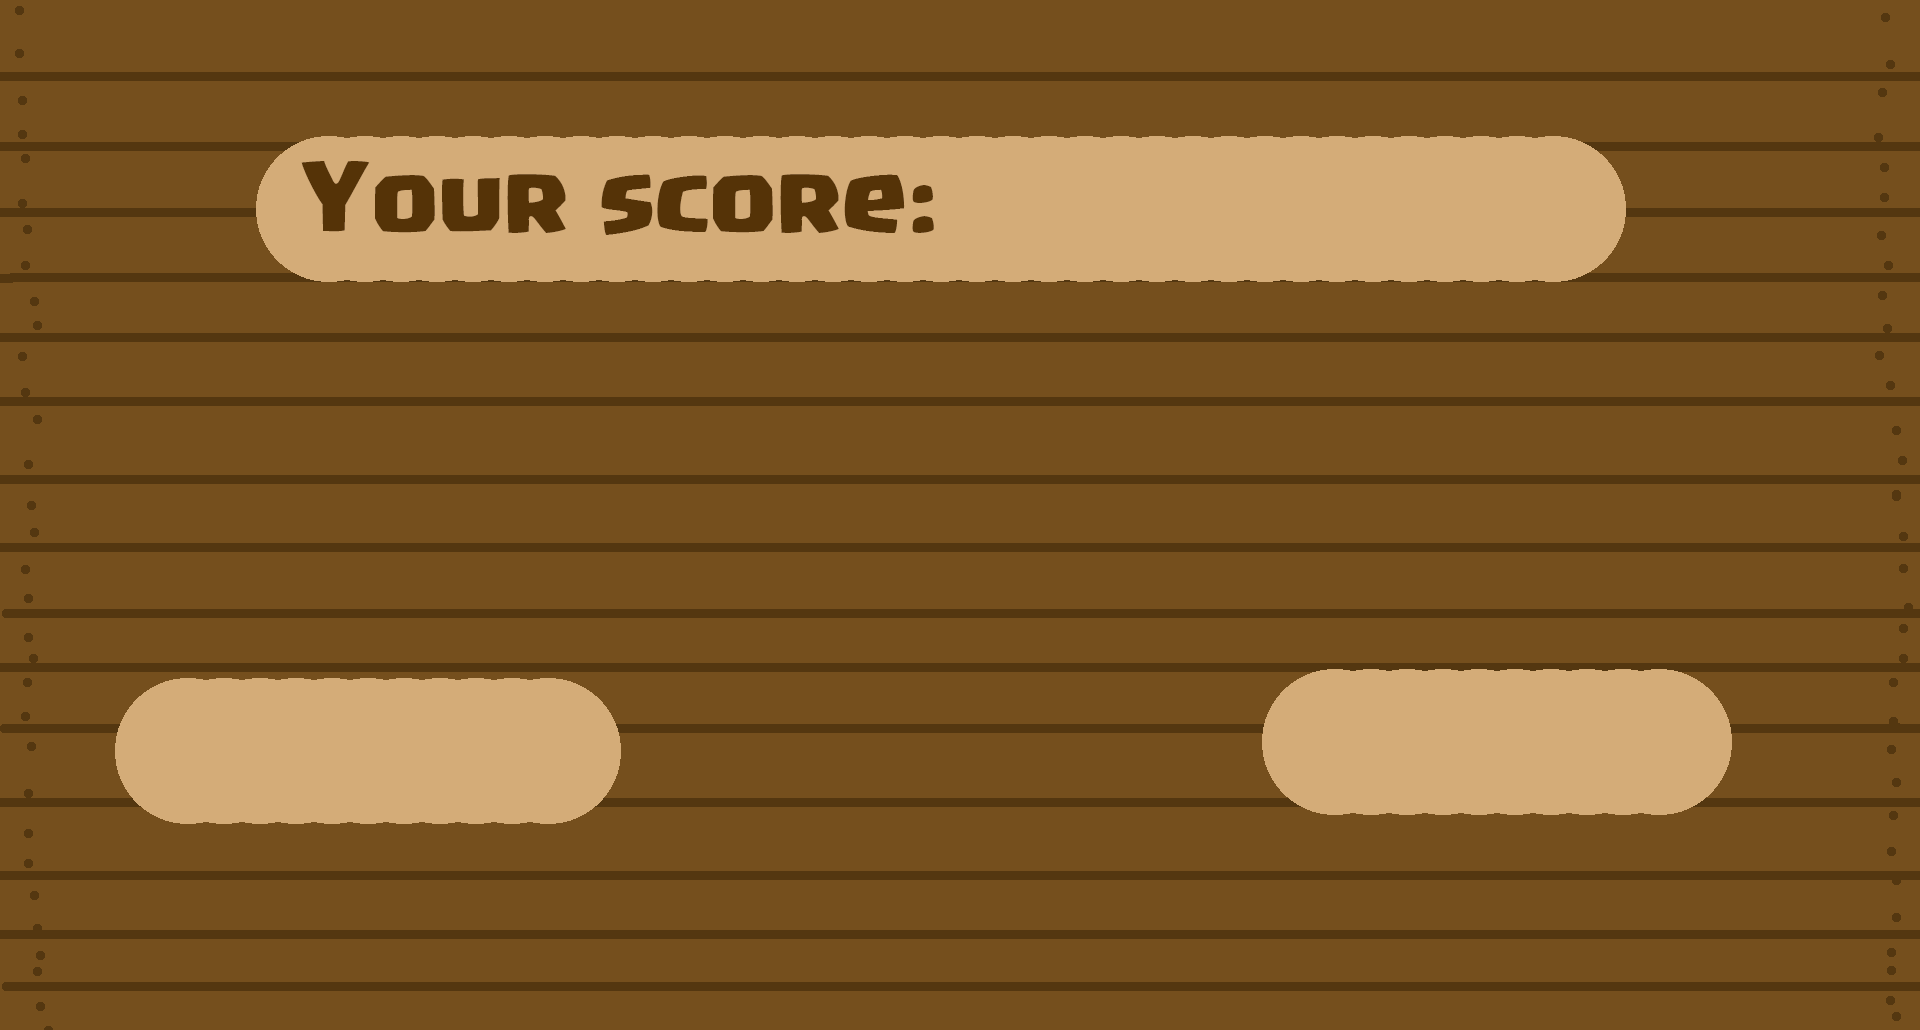
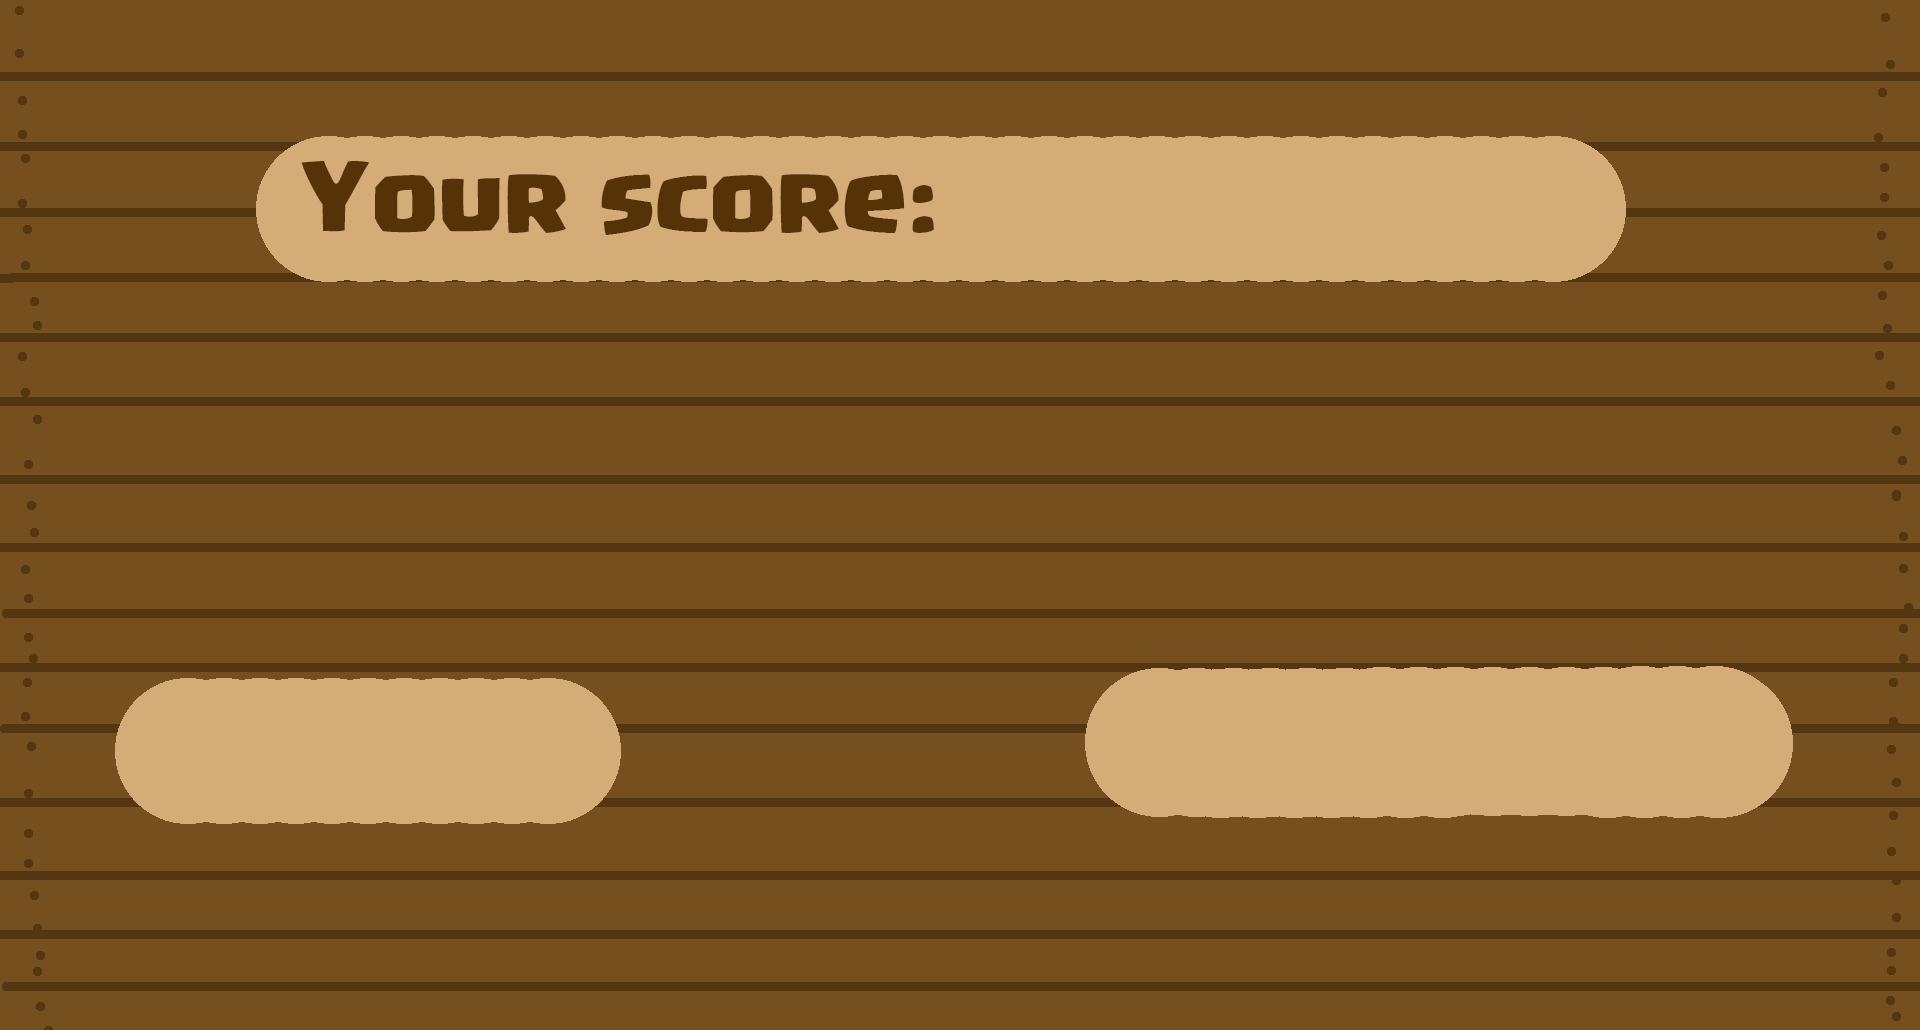
fix bugs

Changed region(s): [[0.5625, 0.6214, 0.6875, 0.8078], [0.875, 0.6214, 0.9375, 0.8078]]

diff --git a/end_screen.py b/end_screen.py
@@ -9,8 +9,8 @@ def end_screen(screen):
     pygame.display.set_caption("End Screen")
     pygame.display.set_icon(assets['icon'])
     end_screen_bg = Background(assets['bg_end_screen'])
-    button_replay = Button(assets['button_replay'], assets['button_replay_mouse'], (100, 800))
-    button_main_menu = Button(assets['button_main_menu'], assets['button_main_menu_mouse'], (650, 800))
+    button_replay = Button(assets['button_replay'], assets['button_replay_mouse'], (285, 690))
+    button_main_menu = Button(assets['button_main_menu'], assets['button_main_menu_mouse'], (1170, 680))
     end_screen_running = True
 
     while end_screen_running:
@@ -33,6 +33,6 @@ def end_screen(screen):
         for event in pygame.event.get():
             if event.type == pygame.QUIT:
                 end_screen_running = False
-                return 'quit'
+                pygame.quit()
 
         pygame.display.update()
